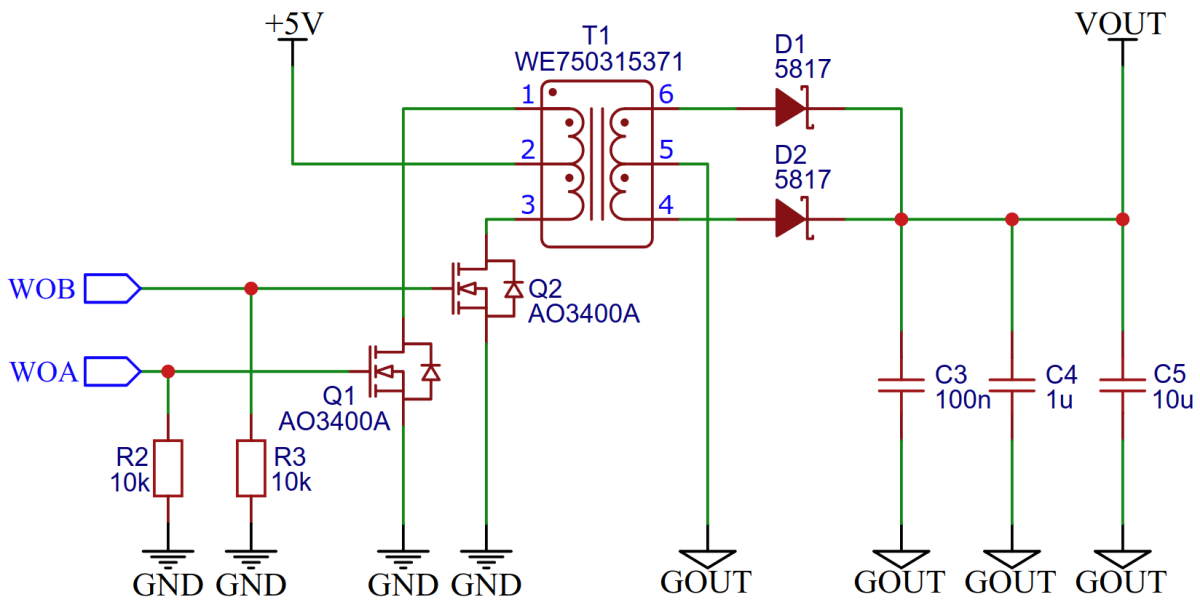
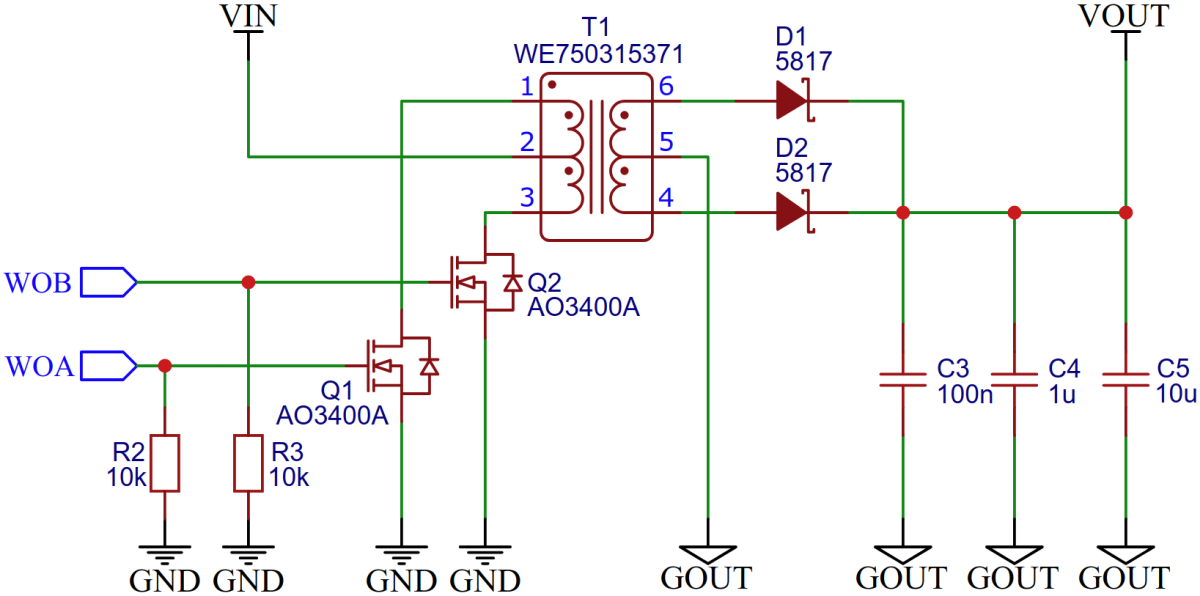
Update documentation

Changed region(s): [[0.0, 0.0, 1.0, 0.9966], [0.555, 0.906, 0.6475, 0.9966]]

diff --git a/README.md b/README.md
@@ -40,12 +40,19 @@ $$n_{min} = \frac{1}{η} \times \frac{V_{OUT} + V_F + V_{DO}}{V_{IN} - R_{DS(ON)
 The WE750315371 transformer used here has a turns ratio of 1.1 (±2%), so that fits.
 
 ## MOSFET and Diode Selection
-An N-channel MOSFET with a gate threshold voltage $V_{GS(th)}$ significantly lower than 5V must be selected. A low on-resistance $R_{DS(ON)}$ improves efficiency. In addition, the continuous drain current $I_D$ must be greater than the maximum current $(I_{max})$ that the device should deliver.
+An N-channel MOSFET with a gate threshold voltage $V_{GS(th)}$ significantly lower than 5V must be selected. A low on-resistance $R_{DS(ON)}$ improves efficiency. In addition, the continuous drain current $I_D$ must be greater than the maximum current $I_{max}$ that the device should deliver.
 
-When choosing the diodes, Schottky diodes with the lowest possible forward voltage $V_F$ should be chosen in order to achieve high efficiency. The maximum forward current $I_F$ of the diode should be at least as high as the maximum current $(I_{max})$ that the device is designed to deliver.
+When choosing the diodes, Schottky diodes with the lowest possible forward voltage $V_F$ should be chosen in order to achieve high efficiency. The maximum forward current $I_F$ of the diode should be at least as high as the maximum current $I_{max}$ that the device is designed to deliver.
 
 ## Optional Downstream Voltage Regulator (LDO)
-The USB Power Isolator has an unregulated output, which means that the output voltage depends significantly on the input voltage and the current drawn. In order to stabilize the output voltage, a linear voltage regulator can be connected downstream if required. A voltage regulator with the lowest possible dropout voltage should be selected in order to increase overall efficiency. In addition, it should be able to supply the required maximum current. Note that if a voltage regulator is connected downstream, a different turns ratio of the transformer must be selected according to the formula shown above, so that the dropout voltage can be compensated.
+The USB Power Isolator has an unregulated output, which means that the output voltage depends significantly on the input voltage and the current drawn. In order to stabilize the output voltage, a linear voltage regulator can be connected downstream if required. A voltage regulator with the lowest possible dropout voltage $V_{DO}$ should be selected in order to increase overall efficiency. In addition, its current drive capability should slightly exceed the maximum load current of the application $I_{max}$ to prevent the LDO from dropping out of regulation. Note that if a voltage regulator is connected downstream, a different turns ratio of the transformer must be selected according to the formula shown above, so that the dropout voltage can be compensated.
+
+## Optional Downstream L-C Low-Pass Filter
+Switching converters cause ripple at the output voltage due to their functional principle. The output capacitors C3 - C5 smooth this out somewhat, but by no means completely. A much clearer smoothing can be achieved by a downstream L-C low-pass filter, which consists of an inductor and a capacitor. It is important to ensure that the inductor can withstand the maximum output current $I_{max}$ and that the cut-off frequency of the filter $f_{cutoff}$ is orders of magnitude below the switching frequency of the transformer $f_{SW}$. The cut-off frequency depending on the inductance of the coil and the capacitance of the capacitor can be calculated as follows:
+
+$$f_{cutoff} = \frac{1}{2\times\pi\times\sqrt{L \times C}}$$
+
+![wiring2.png](https://raw.githubusercontent.com/wagiminator/ATtiny412-USB-Power-Isolator/main/documentation/USB_Power_Isolator_wiring2.png)
 
 ## PCB Implementations
 Two PCB implementations are available. The first outputs unregulated 5V via a female USB socket and can be easily plugged in between the USB power adapter and the consumer. The second can be used as a split power supply with +5V and -5V.
@@ -144,6 +151,7 @@ int main(void) {
 |Output Voltage|4.7 - 5.5V|
 |Output Voltage Ripple|100mVpp@100mA|
 |Output Current|max 1000mA|
+|Standby Current|35mA|
 |Efficiency|max 83.6%|
 |Isolation Voltage|2500V|
 
